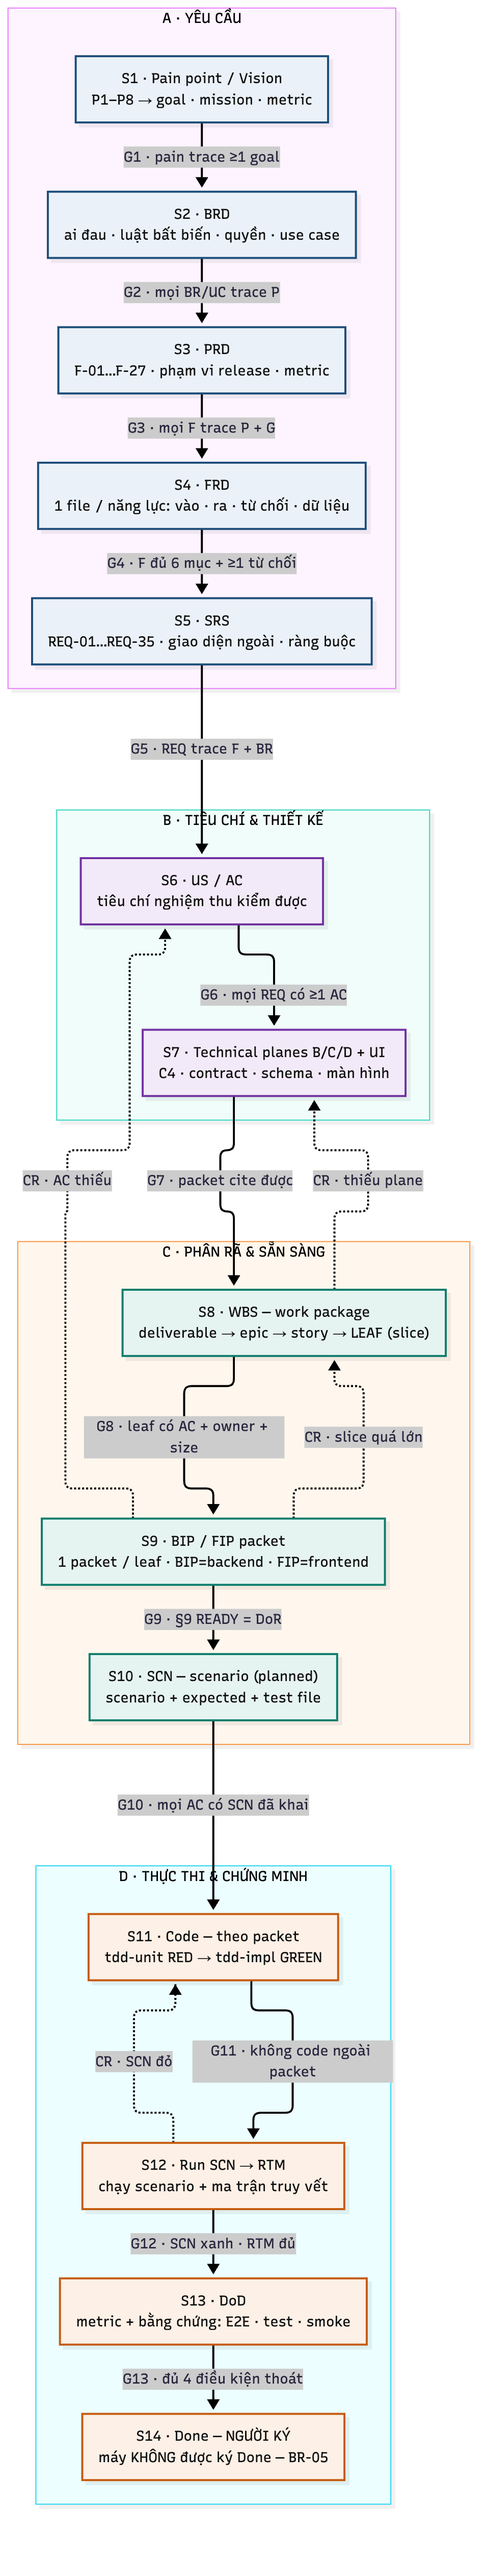
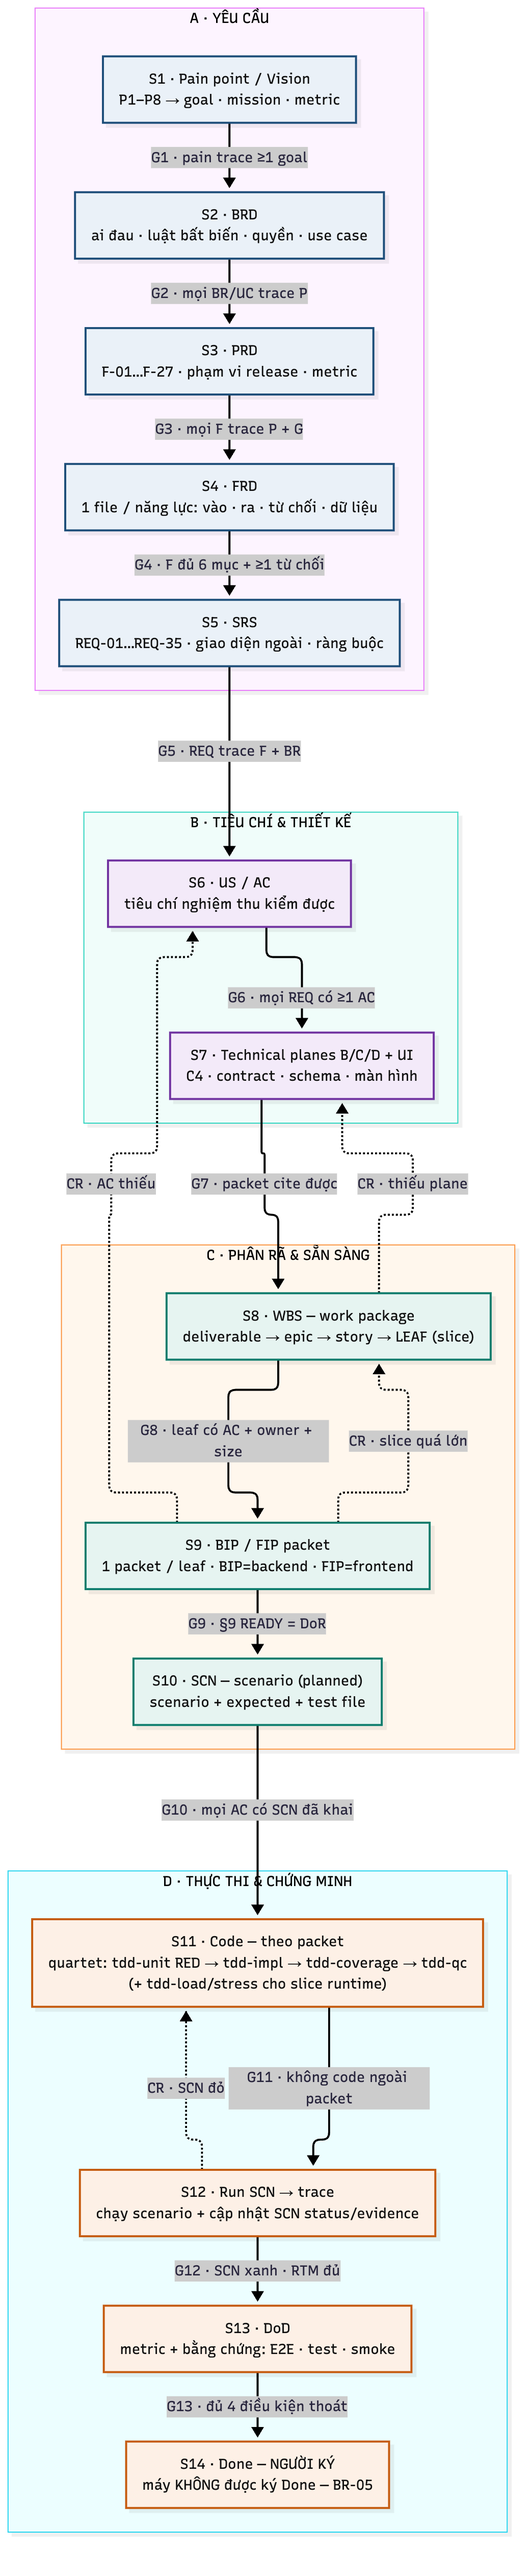
docs(diagrams): S11 shows quartet + load/stress, S12 trace off SCN (no RTM)
- S11 node: quartet tdd-unit RED → tdd-impl → tdd-coverage → tdd-qc, plus tdd-load/stress
  for runtime slices; tdd-ba OUT and tdd-perf standalone Task stay out of the per-ticket lane
- S12 node: "run SCN → trace" (SCN status/evidence); the v1 RTM was deleted by D-108
- PNG regenerated from the Mermaid SoT (doc version 0.2.0, sha 00f562fcbc55)

diff --git a/sdlc/02.governance/04.diagrams/01.main-pipeline.md b/sdlc/02.governance/04.diagrams/01.main-pipeline.md
@@ -1,5 +1,5 @@
 ---
-sot_doc_version: "0.1.0"
+sot_doc_version: "0.2.0"
 source_of_truth: "sdlc/02.governance/02.records/01.document-status.md"
 status: DRAFT
 phase: 1
@@ -33,8 +33,8 @@ flowchart TD
         S10["S10 · SCN — scenario (planned)<br/>scenario + expected + test file"]
     end
     subgraph D["D · THỰC THI & CHỨNG MINH"]
-        S11["S11 · Code — theo packet<br/>tdd-unit RED → tdd-impl GREEN"]
-        S12["S12 · Run SCN → RTM<br/>chạy scenario + ma trận truy vết"]
+        S11["S11 · Code — theo packet<br/>quartet: tdd-unit RED → tdd-impl → tdd-coverage → tdd-qc<br/>(+ tdd-load/stress cho slice runtime)"]
+        S12["S12 · Run SCN → trace<br/>chạy scenario + cập nhật SCN status/evidence"]
         S13["S13 · DoD<br/>metric + bằng chứng: E2E · test · smoke"]
         S14["S14 · Done — NGƯỜI KÝ<br/>máy KHÔNG được ký Done — BR-05"]
     end
@@ -73,7 +73,8 @@ flowchart TD
 ![Main SDLC pipeline](01.main-pipeline.png)
 
 > **Ảnh là artifact sinh ra từ Mermaid ở §1** — không sửa tay. Regenerate:
-> `npx -y @mermaid-js/mermaid-cli -p pptr.json -i 05.main-pipeline.mmd -o 05.main-pipeline.png -b white -s 2`
+> `npx -y @mermaid-js/mermaid-cli -p /tmp/pptr.json -i sdlc/02.governance/04.diagrams/01.main-pipeline.md -o /tmp/out.png -s 2 -b white
+> (mermaid-cli xuất `/tmp/out-1.png` cho file markdown — copy về `01.main-pipeline.png`)`
 > (pptr.json = `{"executablePath": "/Applications/Google Chrome.app/Contents/MacOS/Google Chrome"}`).
 
 ## 3. Quyết định / không quyết định
@@ -86,5 +87,5 @@ flowchart TD
 
 ## 4. Revision rule
 
-Mermaid ở §1 đổi ⇒ **render lại** `05.main-pipeline.png` trong cùng thay đổi + bump `sot_doc_version`. Ảnh không được sửa tay;
+Mermaid ở §1 đổi ⇒ **render lại** `01.main-pipeline.png` trong cùng thay đổi + bump `sot_doc_version`. Ảnh không được sửa tay;
 nếu ảnh khác Mermaid thì **Mermaid thắng**.
